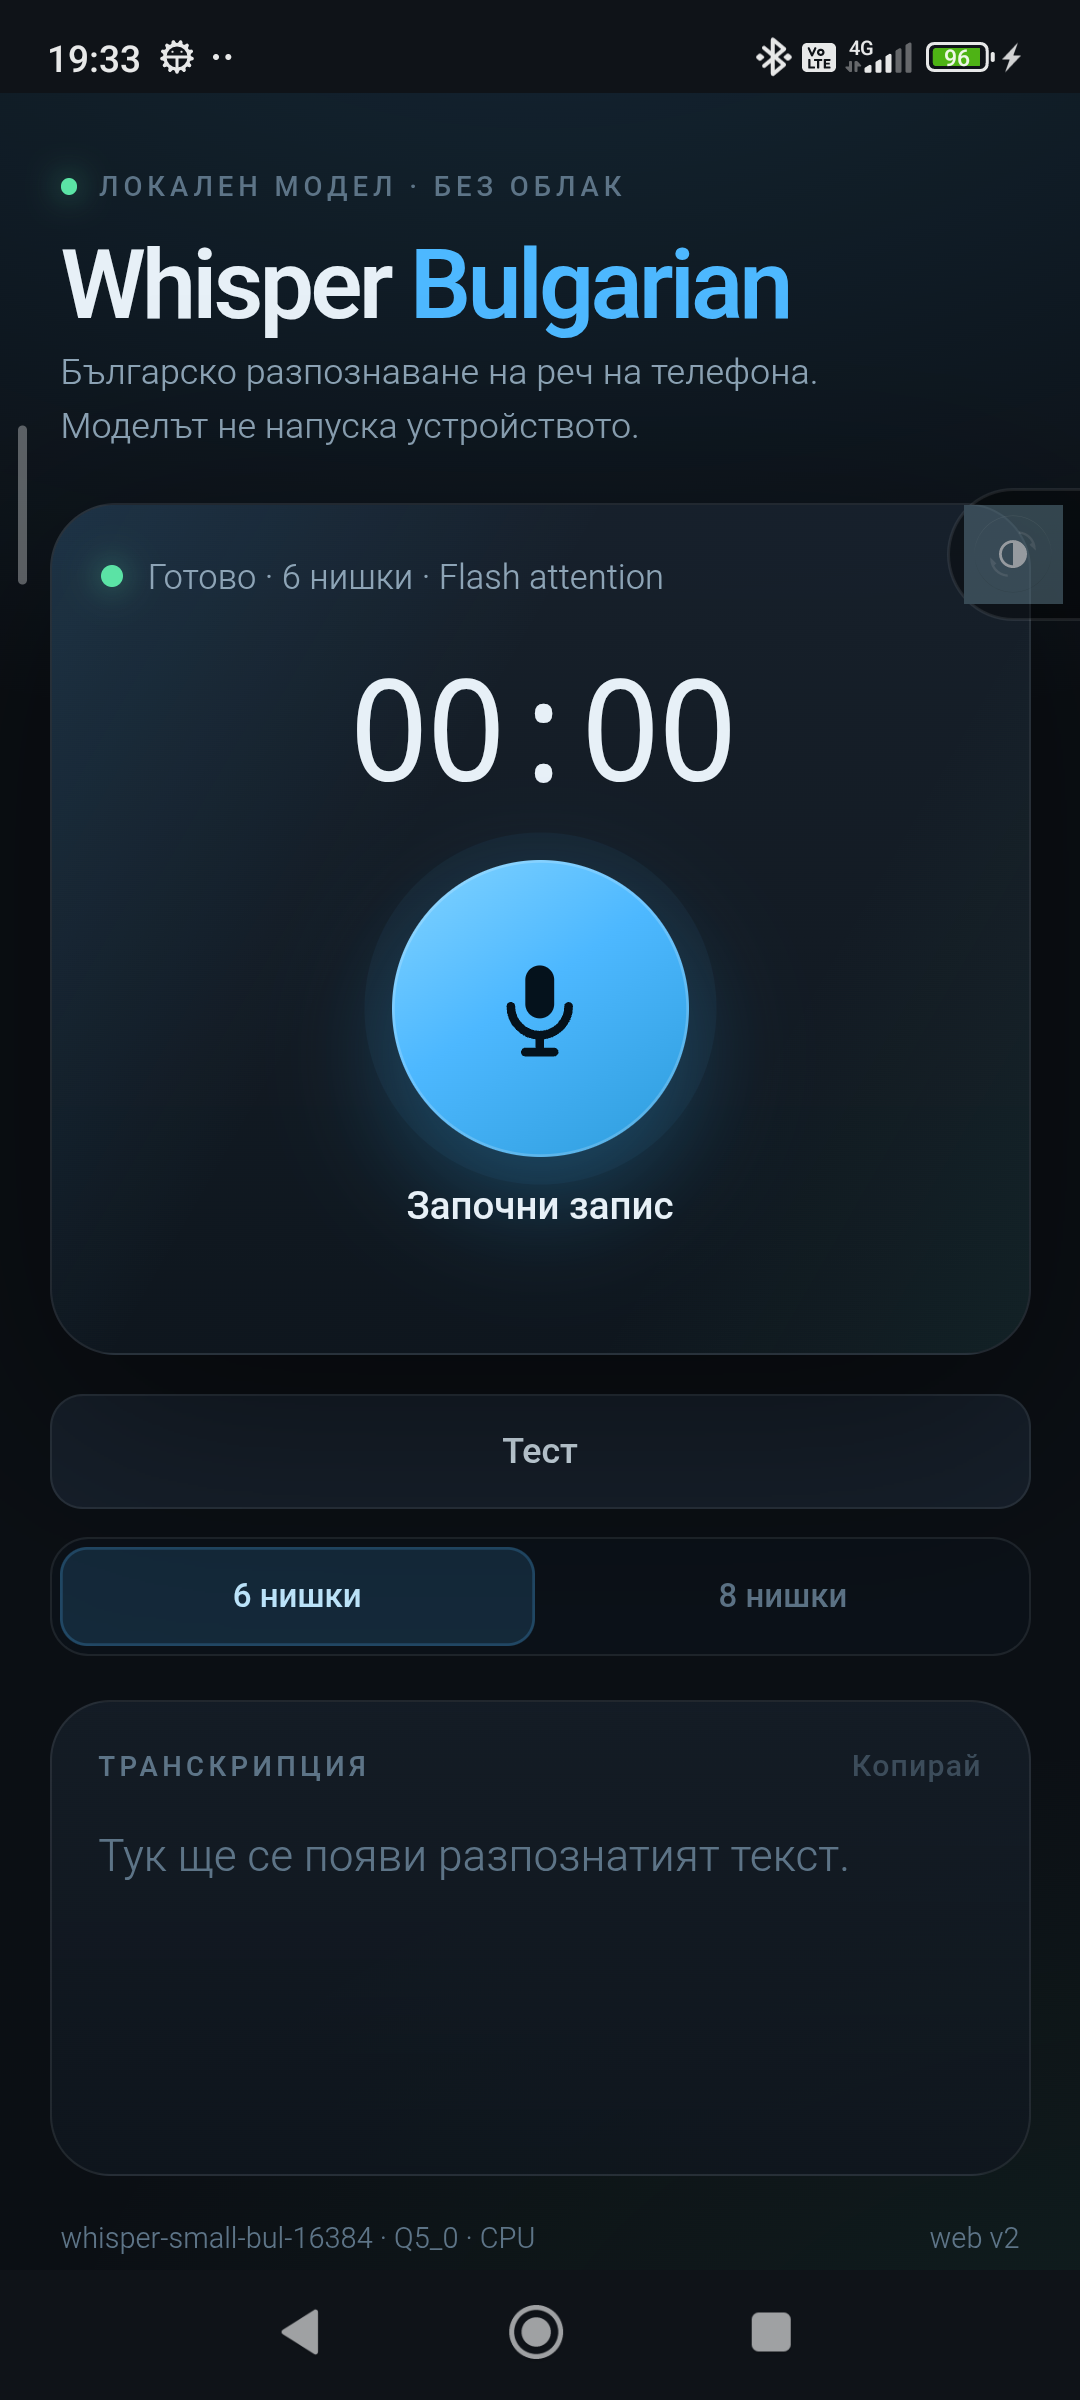
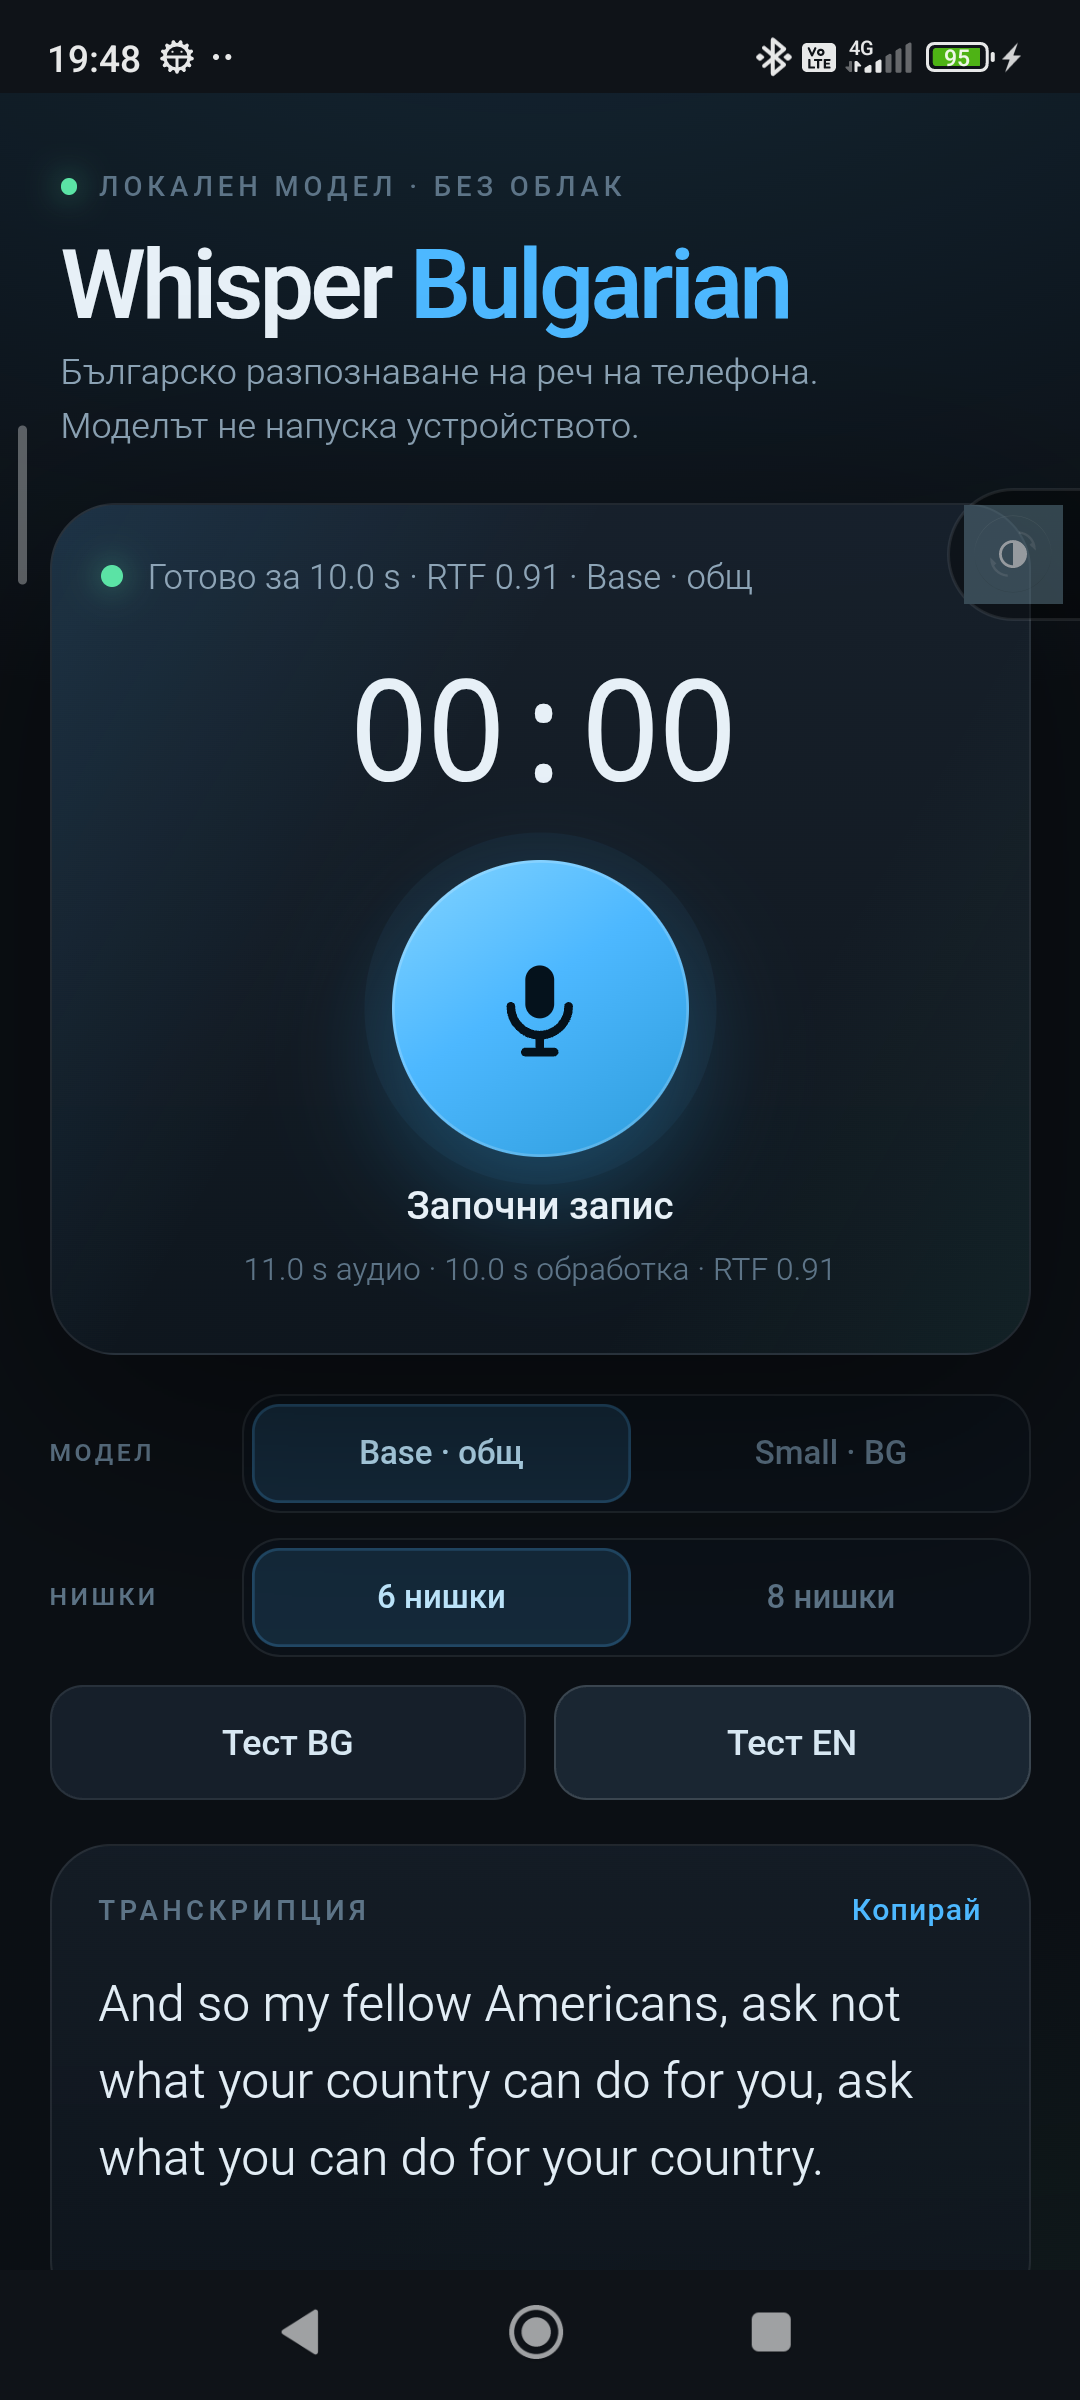
Update screenshot for dual-model UI

diff --git a/README.md b/README.md
@@ -17,9 +17,11 @@ inside the Android app, because the model runs natively on the phone.
 - The Android app loads this page in a `WebView`.
 - `window.BulWhisper` is injected by the app and exposes:
   - `getState()` — JSON state (loading/ready/recording/transcribing, transcript,
-    threads, timings).
+    threads, timings, model).
   - `startRecording()` / `stopRecording()` — native `AudioRecord` capture.
-  - `transcribeSample()` — transcribe the bundled Bulgarian test clip.
+  - `transcribeSample("bg"|"en")` — Bulgarian or English test clip.
+  - `setModel("base"|"bul")` — generic multilingual Whisper Base or the
+    Bulgarian-specific Whisper Small.
   - `setThreads(6|8)` — persisted CPU thread count.
 - The page polls `getState()` every 250 ms. No network requests and no cloud
   inference are involved.
